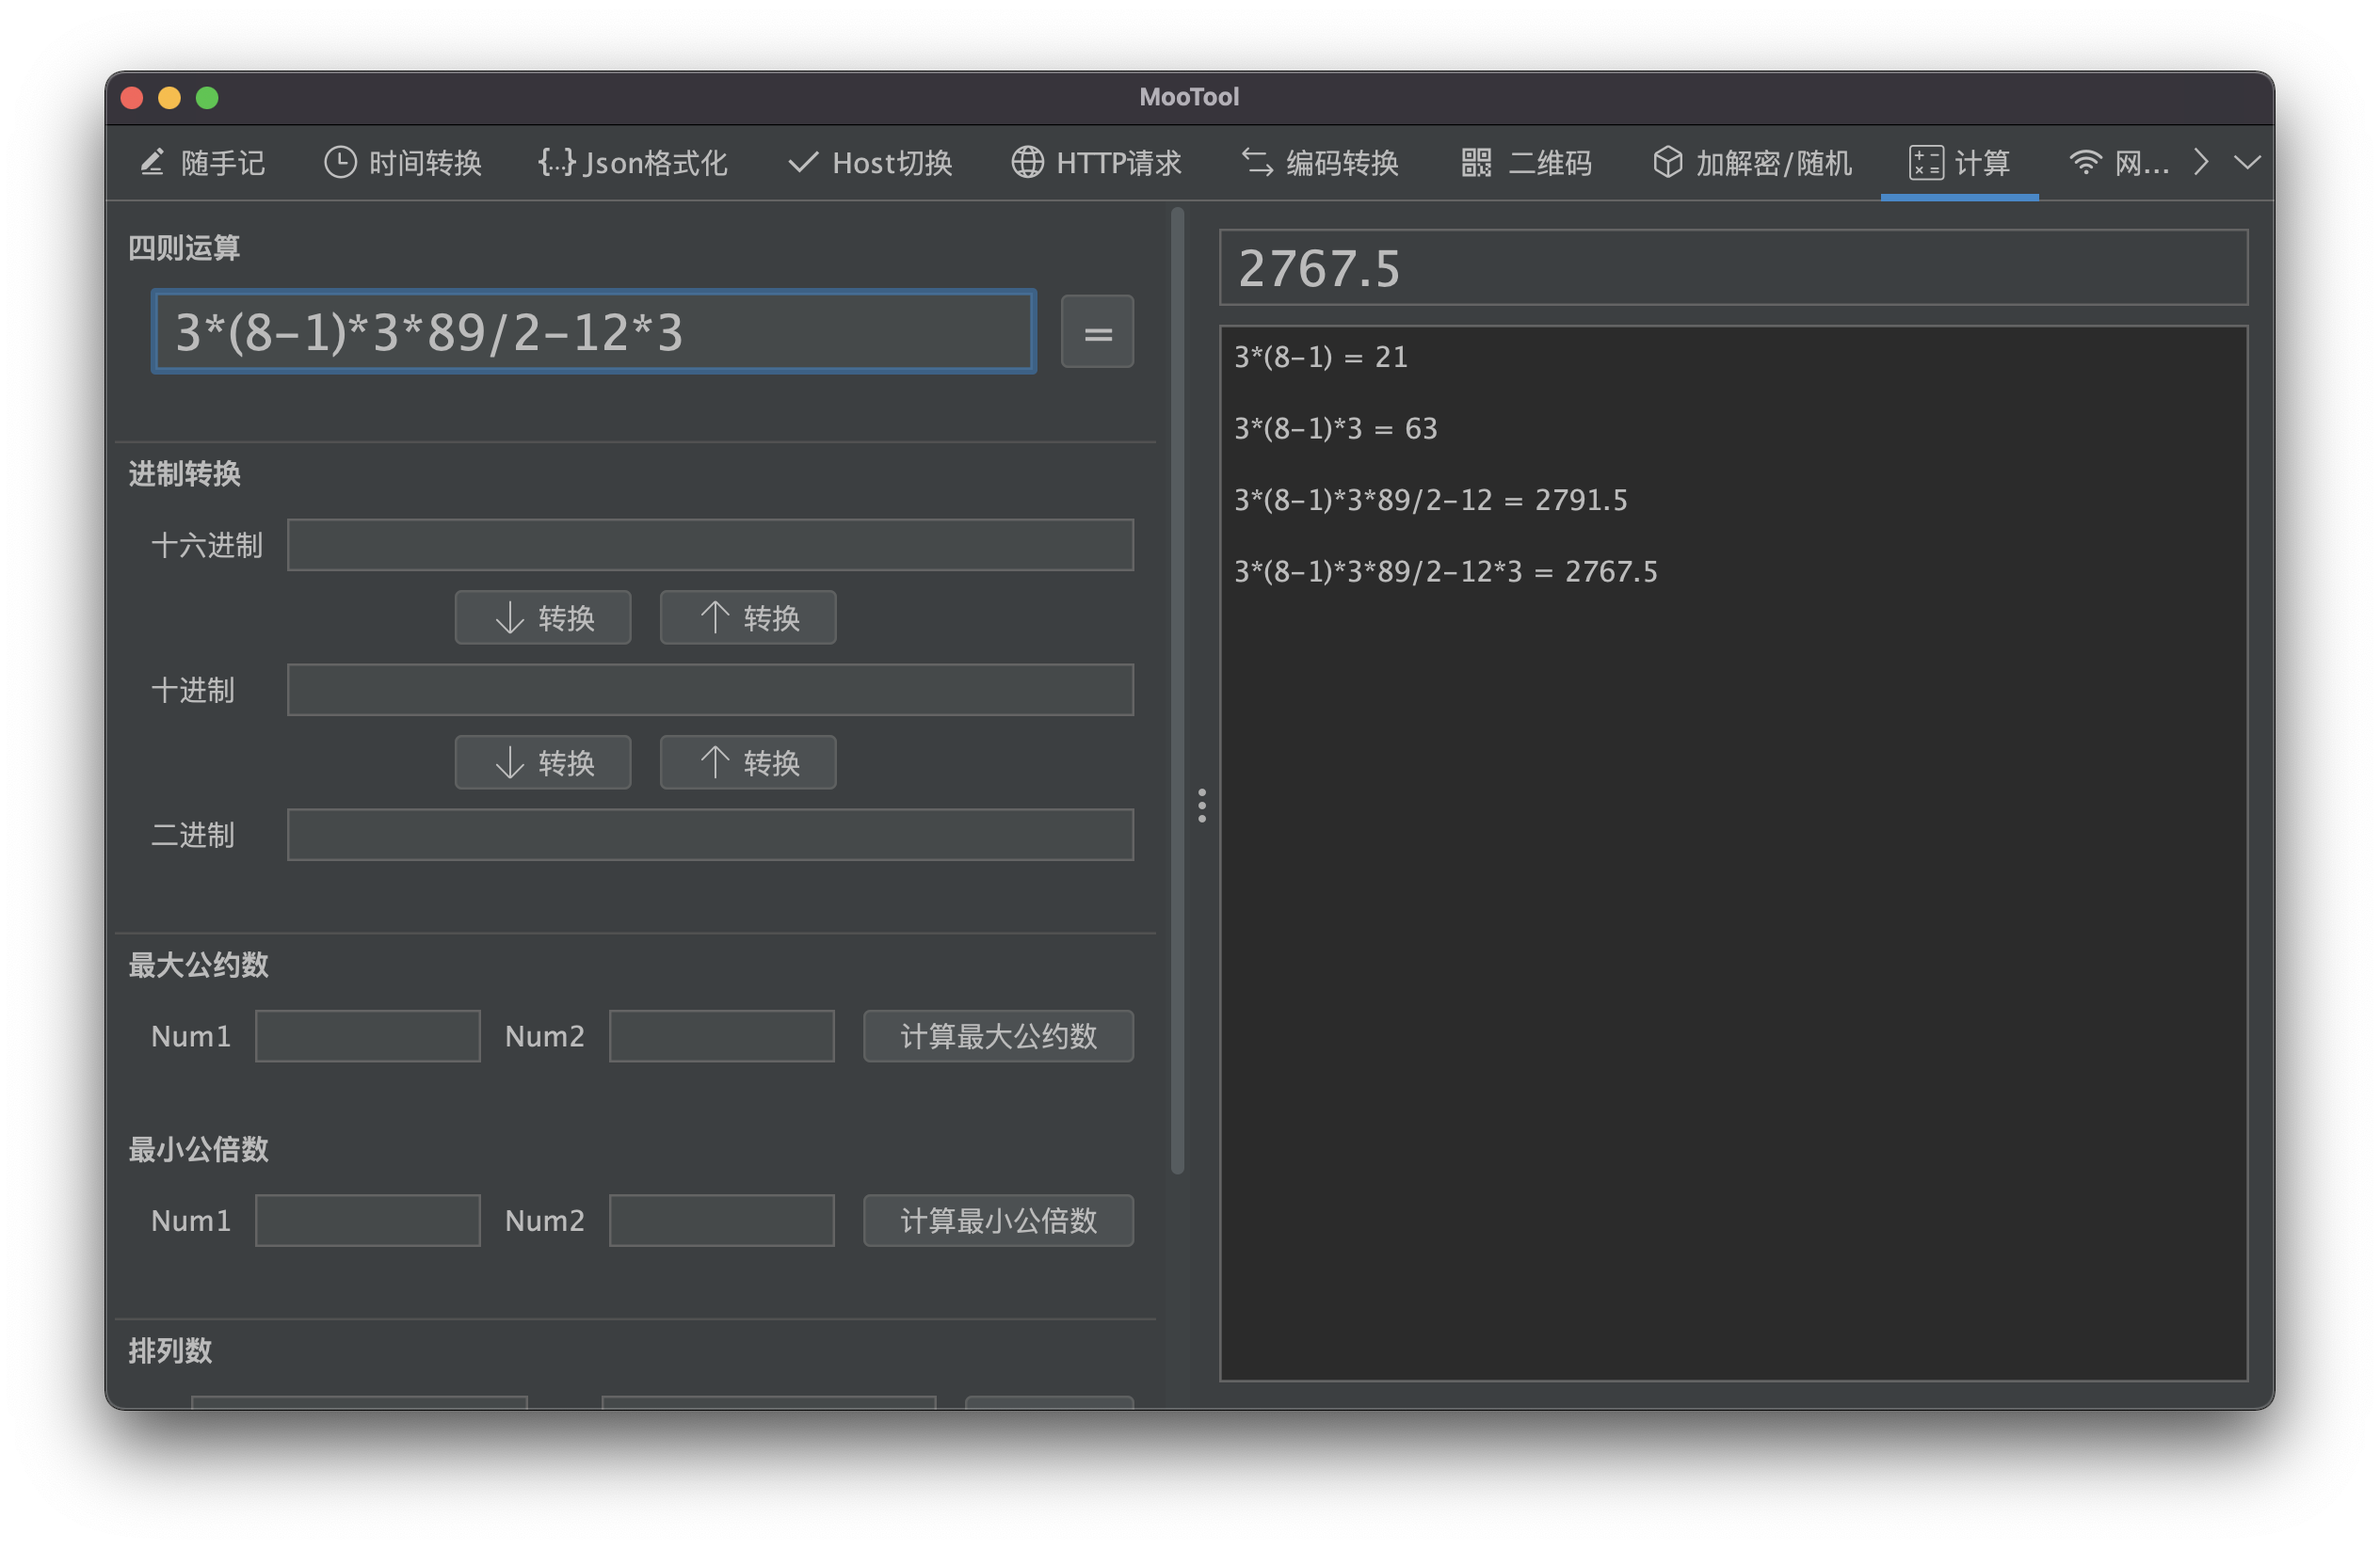
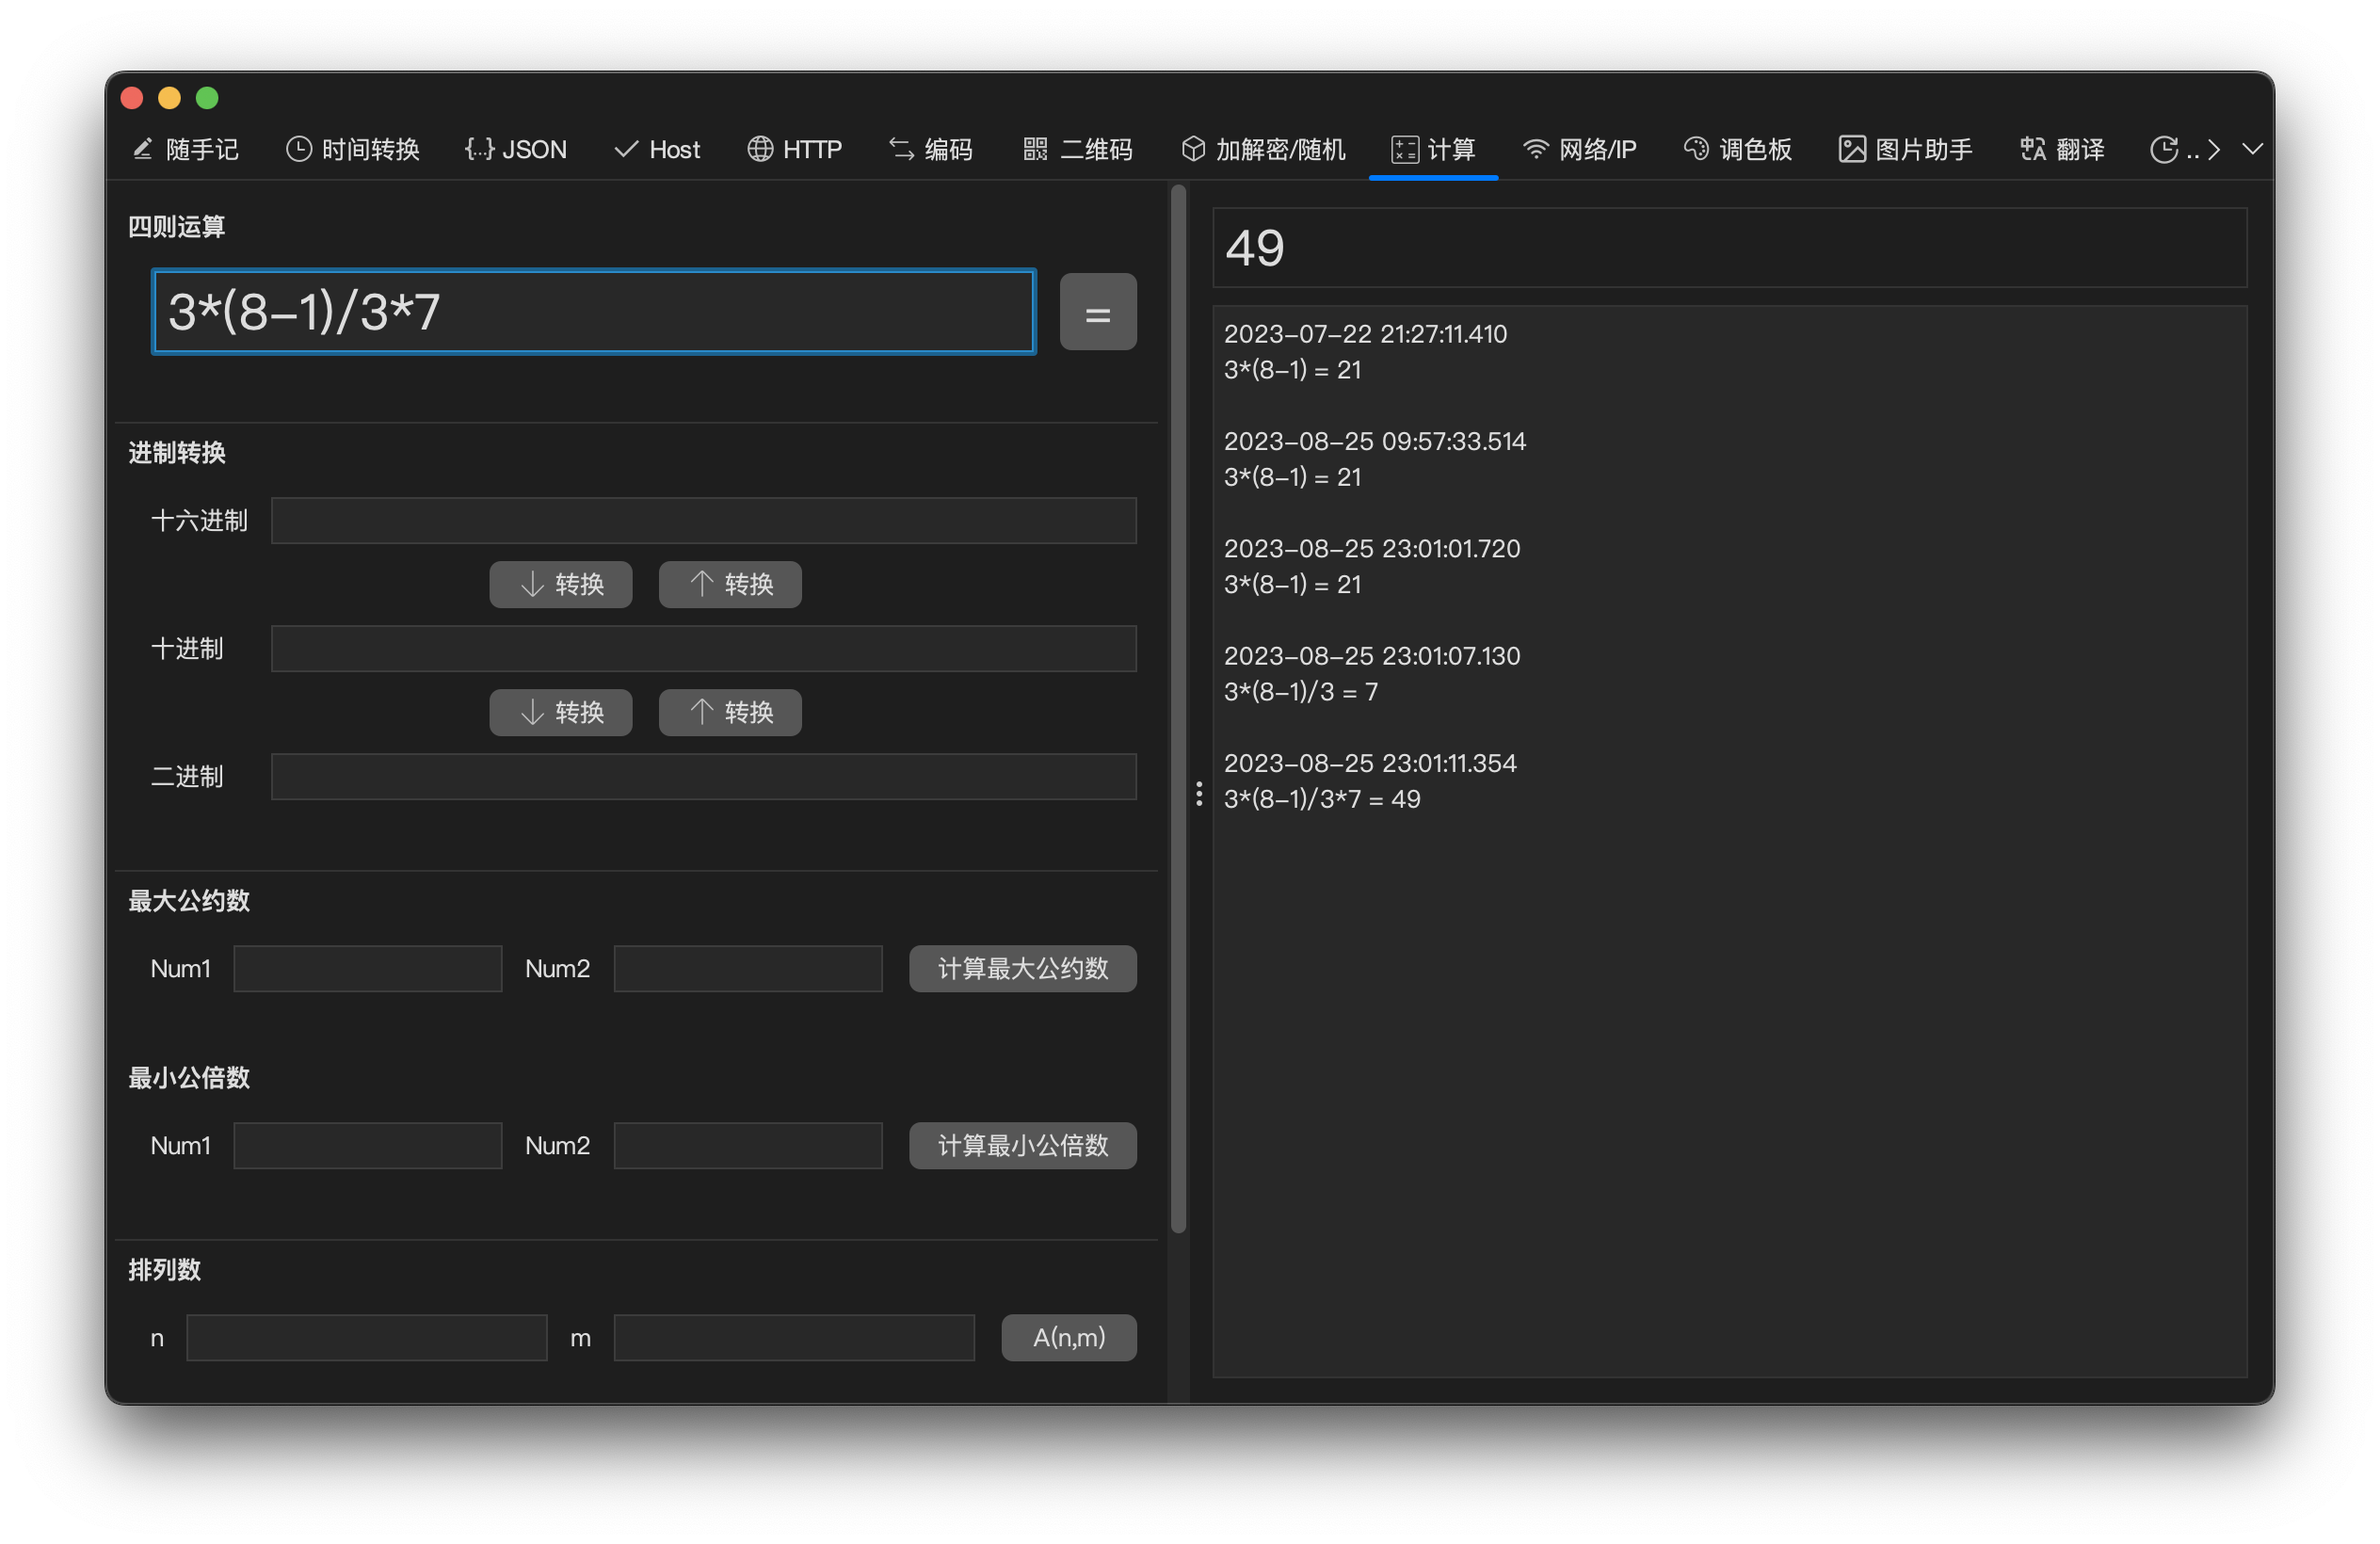
更新部分截图

diff --git a/readme.md b/readme.md
@@ -7,7 +7,6 @@ Handy tool set for developers.
 
 [![码云Gitee](https://gitee.com/zhoubochina/MooTool/badge/star.svg?theme=blue)](https://gitee.com/zhoubochina/MooTool)
 [![GitHub stars](https://img.shields.io/github/stars/rememberber/MooTool.svg)](https://github.com/rememberber/MooTool)
-[![Build Status](https://travis-ci.org/rememberber/MooTool.svg?branch=master)](https://travis-ci.org/rememberber/MooTool)
 [![GitHub release](https://img.shields.io/github/v/release/rememberber/MooTool)](https://github.com/rememberber/MooTool/releases)
 [![GitHub license](https://img.shields.io/github/license/rememberber/MooTool)](https://github.com/rememberber/MooTool/blob/master/LICENSE.txt)
 
@@ -81,8 +80,6 @@ Windows • Linux • macOS
 
 [Hutool](http://hutool.cn/)  
 [FlatLaf](https://github.com/JFormDesigner/FlatLaf)  
-[Darcula](https://github.com/bulenkov/Darcula)  
-[BeautyEye](https://gitee.com/jackjiang/beautyeye)  
 [vscode-icons](https://github.com/microsoft/vscode-icons)  
 [iconfont](https://www.iconfont.cn/)
 
